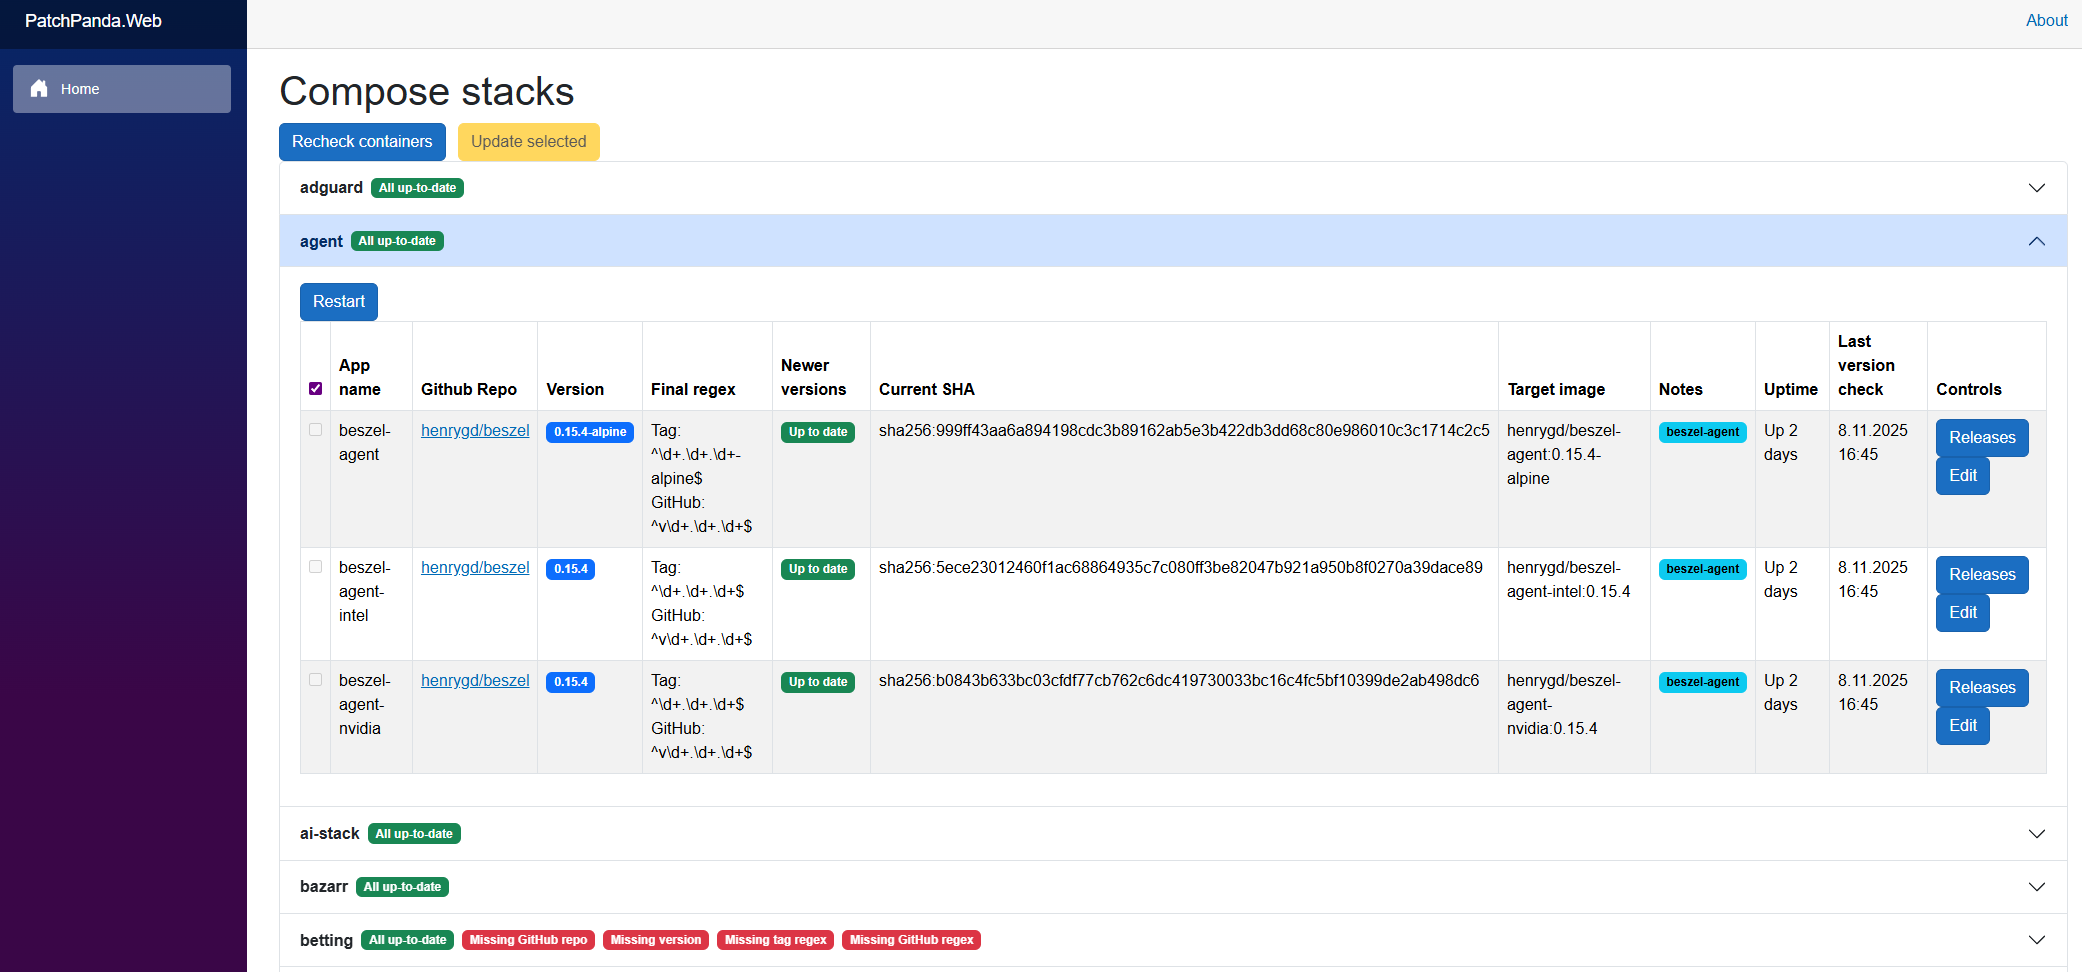
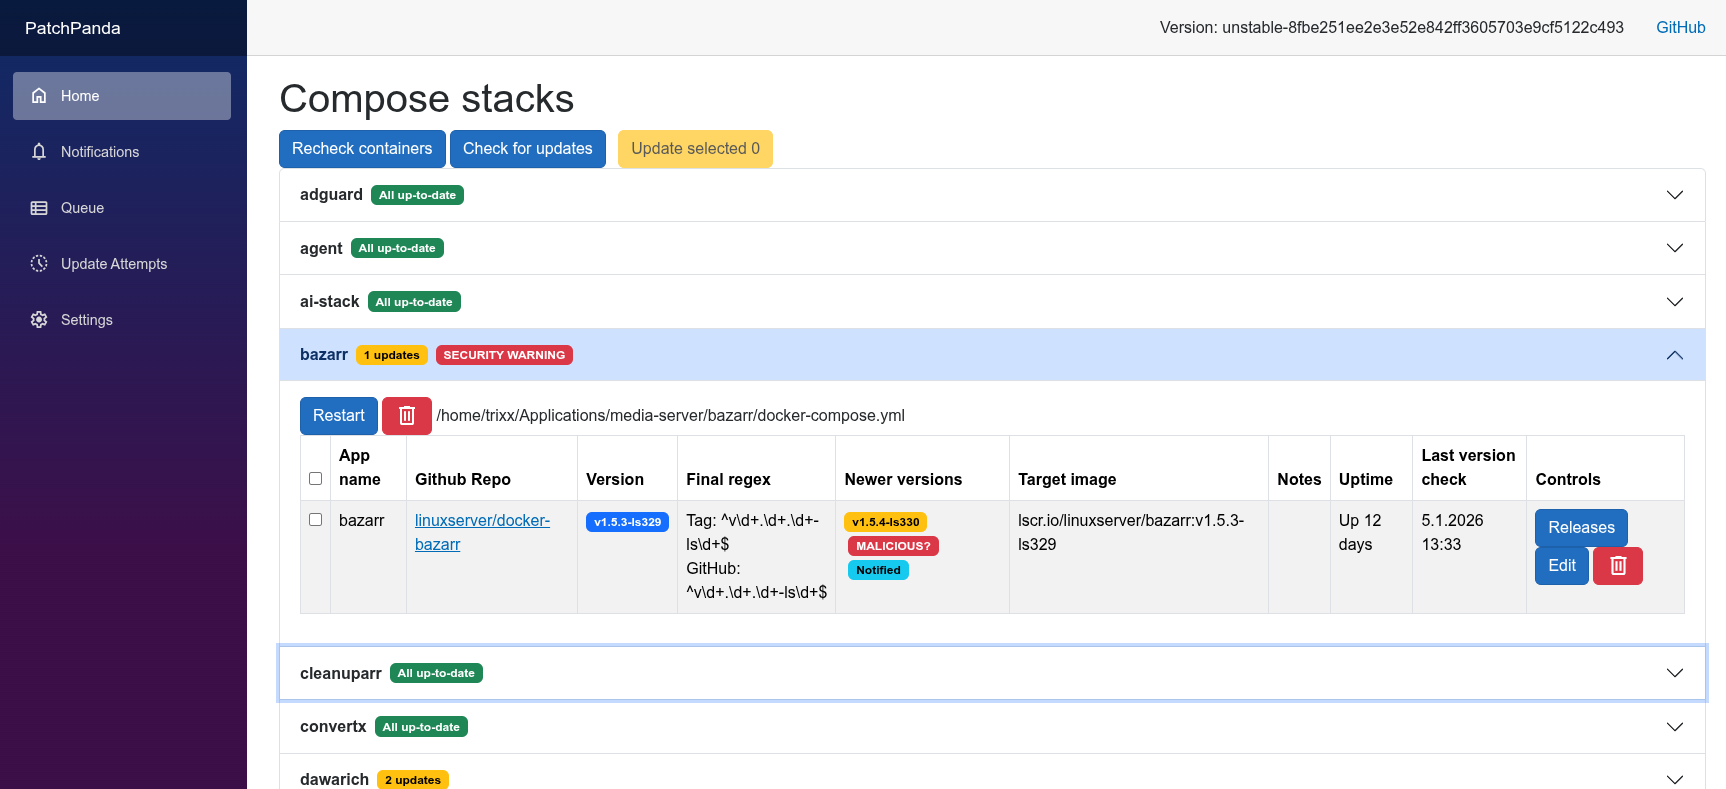
docs: Update images (#88)

diff --git a/README.md b/README.md
@@ -138,10 +138,15 @@ Once the application is running, you can access it in your browser at `http://lo
 ## Screenshots
 
 ![Image of the homepage](screenshots/home.png)
-![Image of a single line with a pending update](screenshots/line.png)
 ![Image of the page with release notes and ability to update](screenshots/versions.png)
 ![Image of the ongoing update](screenshots/terminal.png)
+![Image of the Queue page](screenshots/queue.png)
+![Image of the Update Attempts page](screenshots/attempts.png)
+![Image of the output of an update attempt](screenshots/attempt-output.png)
+![Image of the Settings page](screenshots/settings.png)
+![Image of the Notifications page](screenshots/notifications.png)
 ![Image of the Discord notification](screenshots/discord.png)
+![Image of the Discord auto-update notifications](screenshots/discord-auto-update.png)
 
 ## Homepage widget
 
